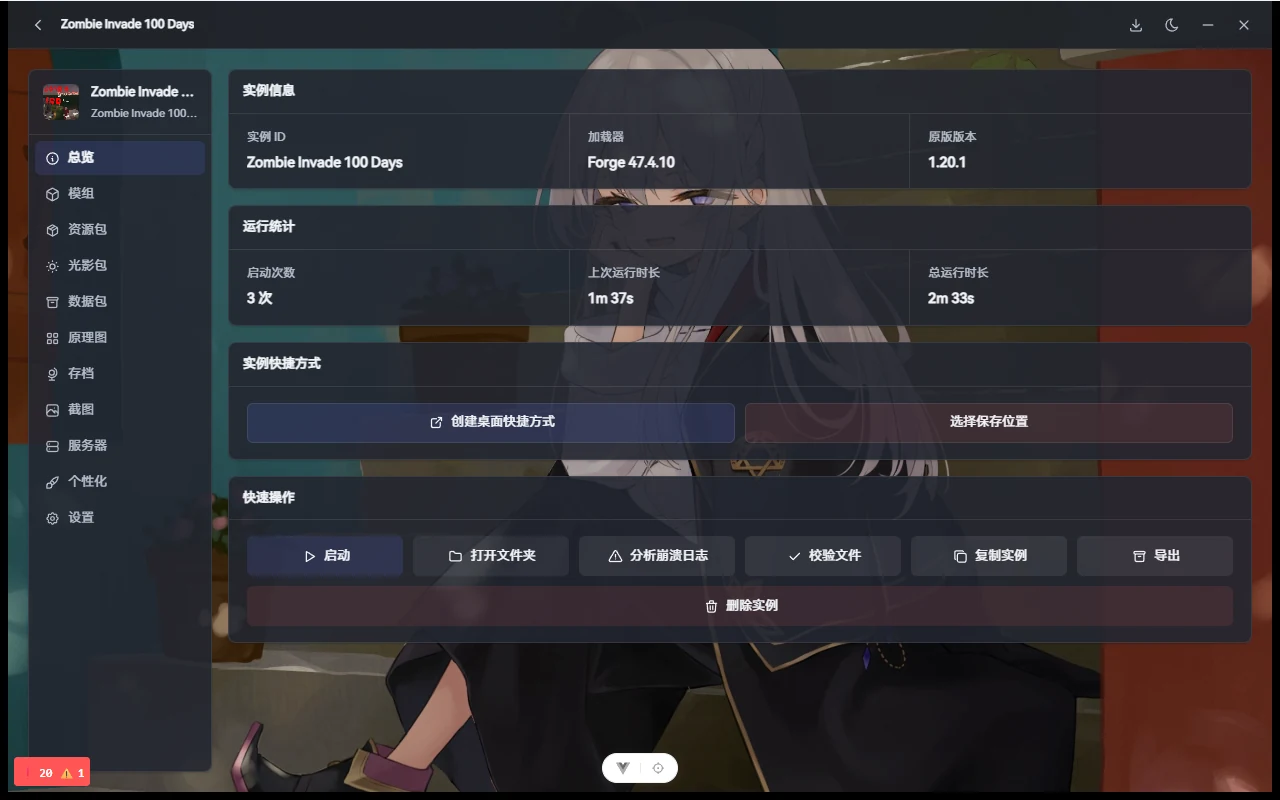
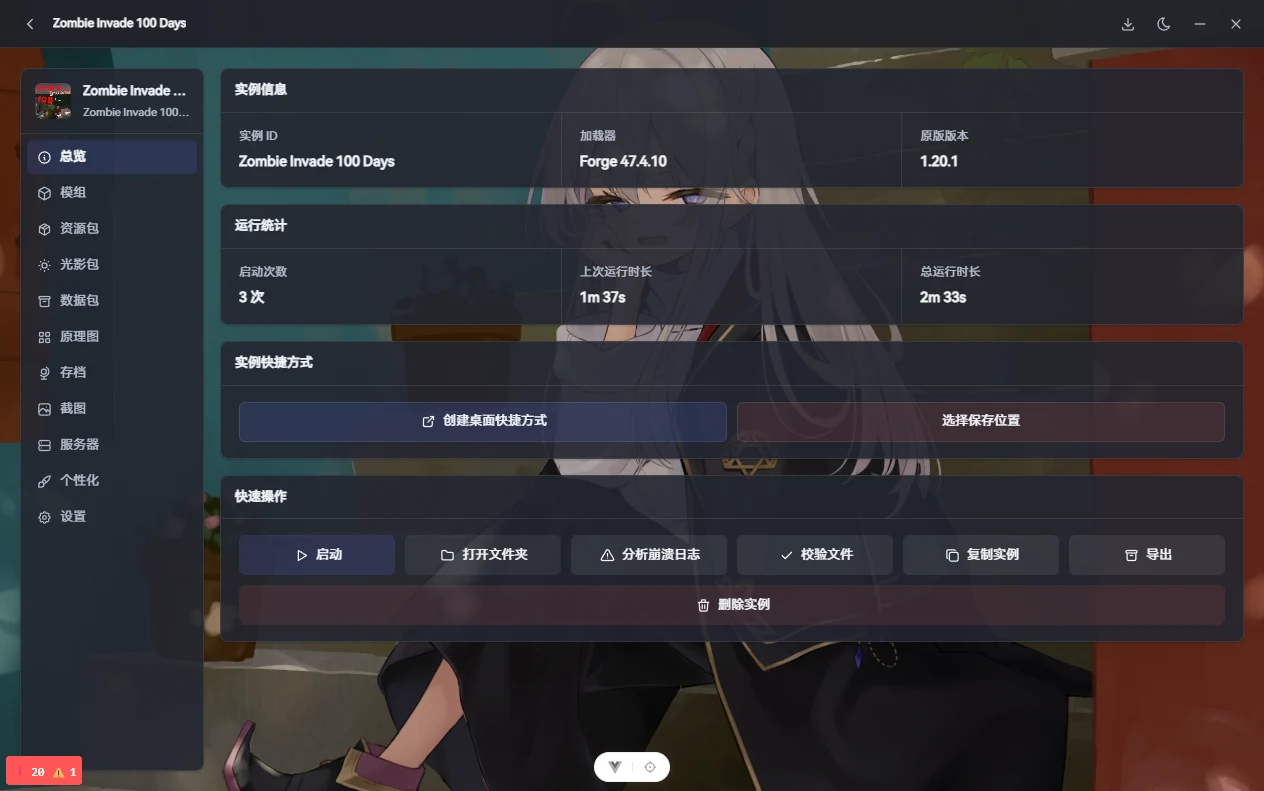
feat(seo): 补齐站点地图、结构化数据与页面级 meta
- 每页独立的 title 与 description（特性、下载、文档、关于、在线体验）
- 新增 SoftwareApplication JSON-LD：名称、类别、协议、下载地址、发行方
- 新增 sitemap.xml 与 robots.txt；在线体验页标记 noindex, follow
- 补充 apple-touch-icon 与 512 图标、theme-color（亮暗双值）、og:site_name / og:url
- 重做 og 分享图：1200x630 品牌排版，907KB PNG → 97KB JPEG
- 营销图裁掉窗口边缘暗条（1280x800 → 1264x791），同步组件宽高

diff --git a/app/app.vue b/app/app.vue
@@ -4,26 +4,96 @@ import { BRAND } from '~/constants'
 const { t, locale } = useI18n()
 const route = useRoute()
 const config = useRuntimeConfig()
-const pageKeys: Record<string, string> = { '/features': 'featuresPage.title', '/download': 'download.title', '/docs': 'nav.docs', '/about': 'nav.about', '/showcase': 'nav.showcase' }
-const title = computed(() => pageKeys[route.path] ? `${t(pageKeys[route.path]!)} · ${BRAND.name}` : t('seo.title'))
+
+// 路径 → seo.pages 的键；首页走 seo.title
+const pageKey: Record<string, string> = {
+  '/features': 'features',
+  '/download': 'download',
+  '/docs': 'docs',
+  '/about': 'about',
+  '/showcase': 'showcase'
+}
+const seoKey = computed(() => pageKey[route.path])
+const pageTitle = computed(() => seoKey.value ? t(`seo.pages.${seoKey.value}.title`) : '')
+const title = computed(() => seoKey.value
+  ? `${pageTitle.value} · ${BRAND.name}`
+  : t('seo.title'))
+const description = computed(() => seoKey.value
+  ? t(`seo.pages.${seoKey.value}.description`)
+  : t('seo.description'))
+
 const siteUrl = computed(() => String(config.public.siteUrl).replace(/\/$/, ''))
+const canonical = computed(() => `${siteUrl.value}${route.path === '/' ? '/' : route.path}`)
+// 在线体验为嵌入演示页，内容单一，避免与主站页面争夺索引
+const robots = computed(() => route.path === '/showcase'
+  ? 'noindex, follow'
+  : 'index, follow, max-image-preview:large')
+
+const ogImage = computed(() => `${siteUrl.value}/marketing/og-cover.jpg`)
+
+// 结构化数据：让搜索引擎把站点识别为一个具体的软件实体（名称、类别、协议、下载地址）
+const jsonLd = computed(() => {
+  const data = {
+    '@context': 'https://schema.org',
+    '@type': 'SoftwareApplication',
+    'name': BRAND.name,
+    'alternateName': BRAND.shortName,
+    'applicationCategory': 'GameApplication',
+    'applicationSubCategory': 'Minecraft launcher',
+    'operatingSystem': 'Windows, macOS, Linux',
+    'description': t('seo.description'),
+    'url': siteUrl.value,
+    'downloadUrl': 'https://github.com/ECLTeam/EuoraCraft-Launcher/releases',
+    'license': 'https://www.gnu.org/licenses/gpl-3.0.html',
+    'isAccessibleForFree': true,
+    'inLanguage': locale.value,
+    'offers': { '@type': 'Offer', 'price': '0', 'priceCurrency': 'CNY' },
+    'publisher': {
+      '@type': 'Organization',
+      'name': BRAND.org,
+      'url': siteUrl.value,
+      'logo': `${siteUrl.value}/icon-512.png`,
+      'email': BRAND.email
+    }
+  }
+  return JSON.stringify(data).replace(/</g, '\\u003c')
+})
+
 useHead(() => ({
   htmlAttrs: { lang: locale.value },
-  link: siteUrl.value ? [{ rel: 'canonical', href: `${siteUrl.value}${route.path}` }] : []
+  link: [
+    { rel: 'canonical', href: canonical.value },
+    { rel: 'icon', type: 'image/x-icon', href: '/favicon.ico' },
+    { rel: 'apple-touch-icon', href: '/apple-touch-icon.png', sizes: '180x180' }
+  ],
+  meta: [
+    { name: 'theme-color', content: '#e7e7ea', media: '(prefers-color-scheme: light)' },
+    { name: 'theme-color', content: '#0a0a0a', media: '(prefers-color-scheme: dark)' },
+    { name: 'format-detection', content: 'telephone=no' }
+  ],
+  script: [
+    { type: 'application/ld+json', innerHTML: jsonLd.value }
+  ]
 }))
+
 useSeoMeta({
   title: () => title.value,
-  description: () => t('seo.description'),
+  description: () => description.value,
+  robots: () => robots.value,
   ogTitle: () => title.value,
-  ogDescription: () => t('seo.description'),
+  ogDescription: () => description.value,
   ogType: 'website',
-  ogImage: () => `${siteUrl.value}/marketing/og-cover.png`,
+  ogSiteName: () => BRAND.name,
+  ogUrl: () => canonical.value,
+  ogImage: () => ogImage.value,
   ogImageWidth: 1200,
   ogImageHeight: 630,
   ogImageAlt: () => t('home.hero.imgAlt'),
   ogLocale: () => locale.value === 'en-US' ? 'en_US' : 'zh_CN',
   twitterCard: 'summary_large_image',
-  twitterImage: () => `${siteUrl.value}/marketing/og-cover.png`
+  twitterTitle: () => title.value,
+  twitterDescription: () => description.value,
+  twitterImage: () => ogImage.value
 })
 </script>
 

diff --git a/app/components/home/FeatureStory.vue b/app/components/home/FeatureStory.vue
@@ -22,8 +22,8 @@ const { t } = useI18n()
         :src="`/marketing/launcher-${story}.webp`"
         :dark-src="`/marketing/launcher-${story}-dark.webp`"
         :alt="t(`home.stories.${story}.alt`)"
-        :width="1280"
-        :height="800"
+        :width="1264"
+        :height="791"
       />
       <figcaption>{{ t("home.stories.imageNote") }}</figcaption>
     </figure>

diff --git a/app/components/home/HomeFeatureStories.vue b/app/components/home/HomeFeatureStories.vue
@@ -29,8 +29,8 @@ const stories = ['instances', 'mods', 'plugins']
       >
         <div class="shot-glow">
           <HomeLauncherWindowMockup
-            :width="1280"
-            :height="800"
+            :width="1264"
+            :height="791"
             :alt="t('home.hero.imgAlt')"
             eager
           />

diff --git a/app/components/home/LauncherWindowMockup.vue b/app/components/home/LauncherWindowMockup.vue
@@ -11,8 +11,8 @@ withDefaults(
   {
     src: '/marketing/launcher-overview.webp',
     darkSrc: '/marketing/launcher-overview-dark.webp',
-    width: 1280,
-    height: 800,
+    width: 1264,
+    height: 791,
     eager: false
   }
 )
